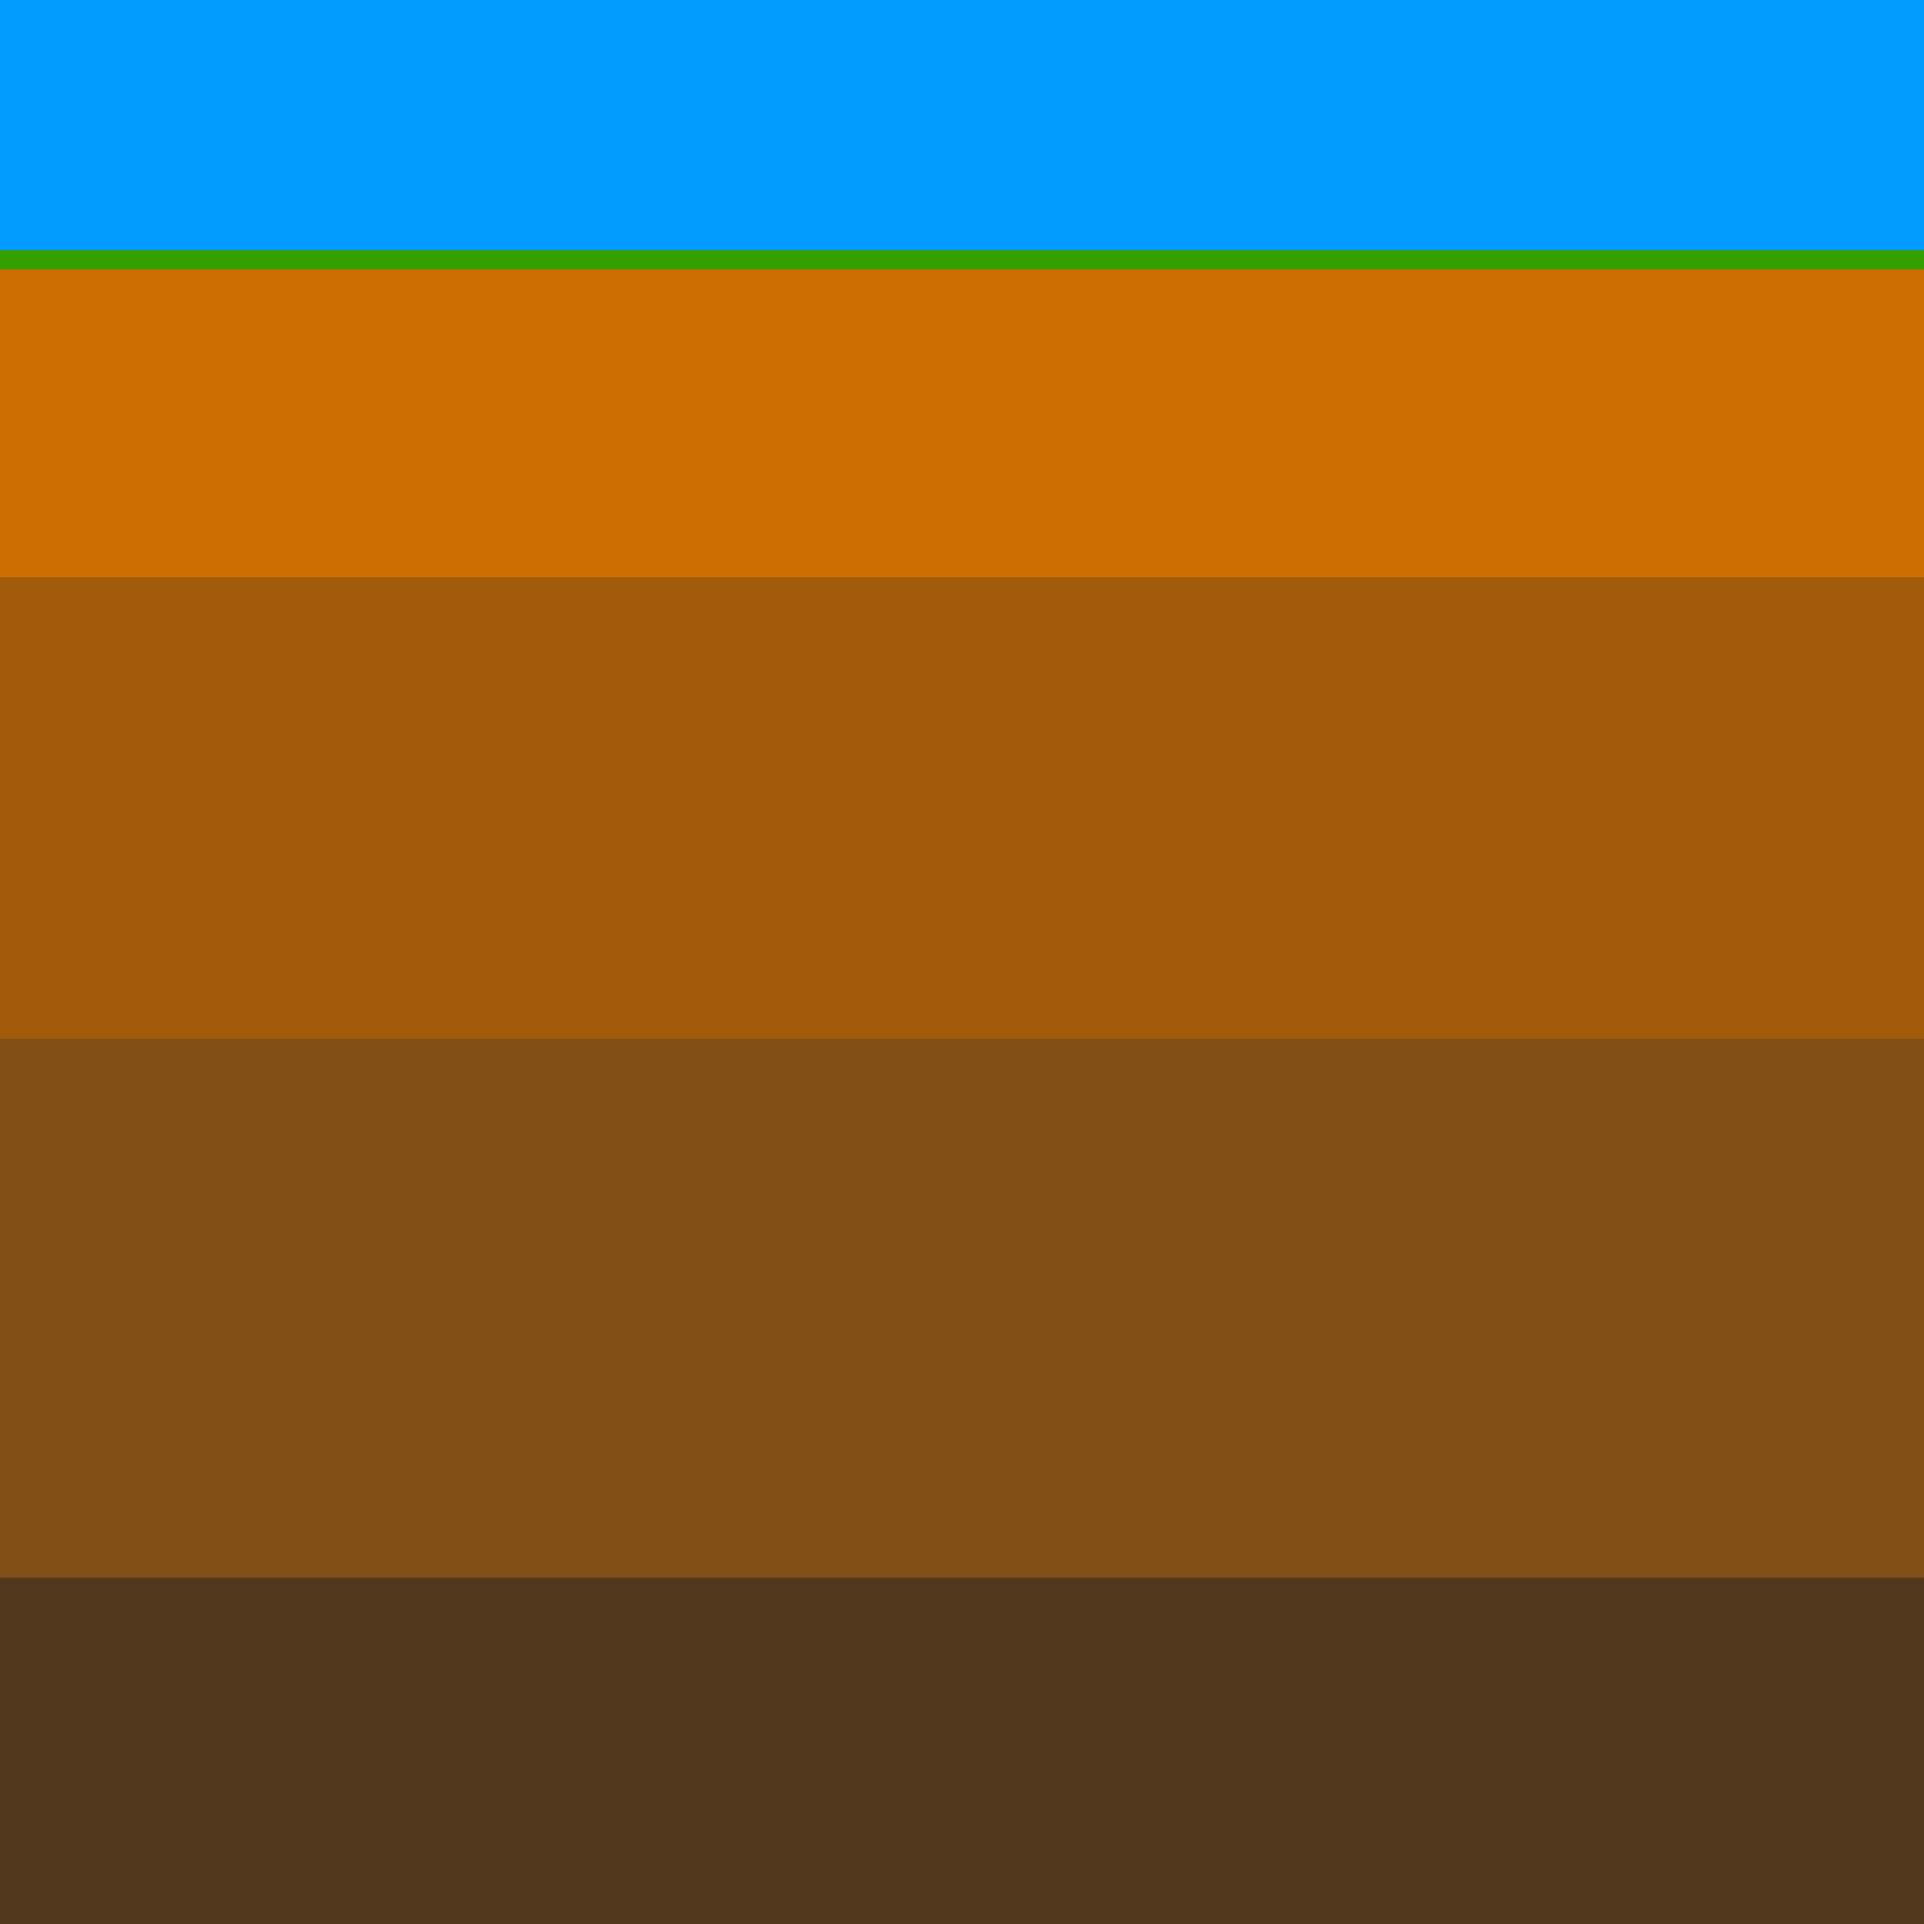
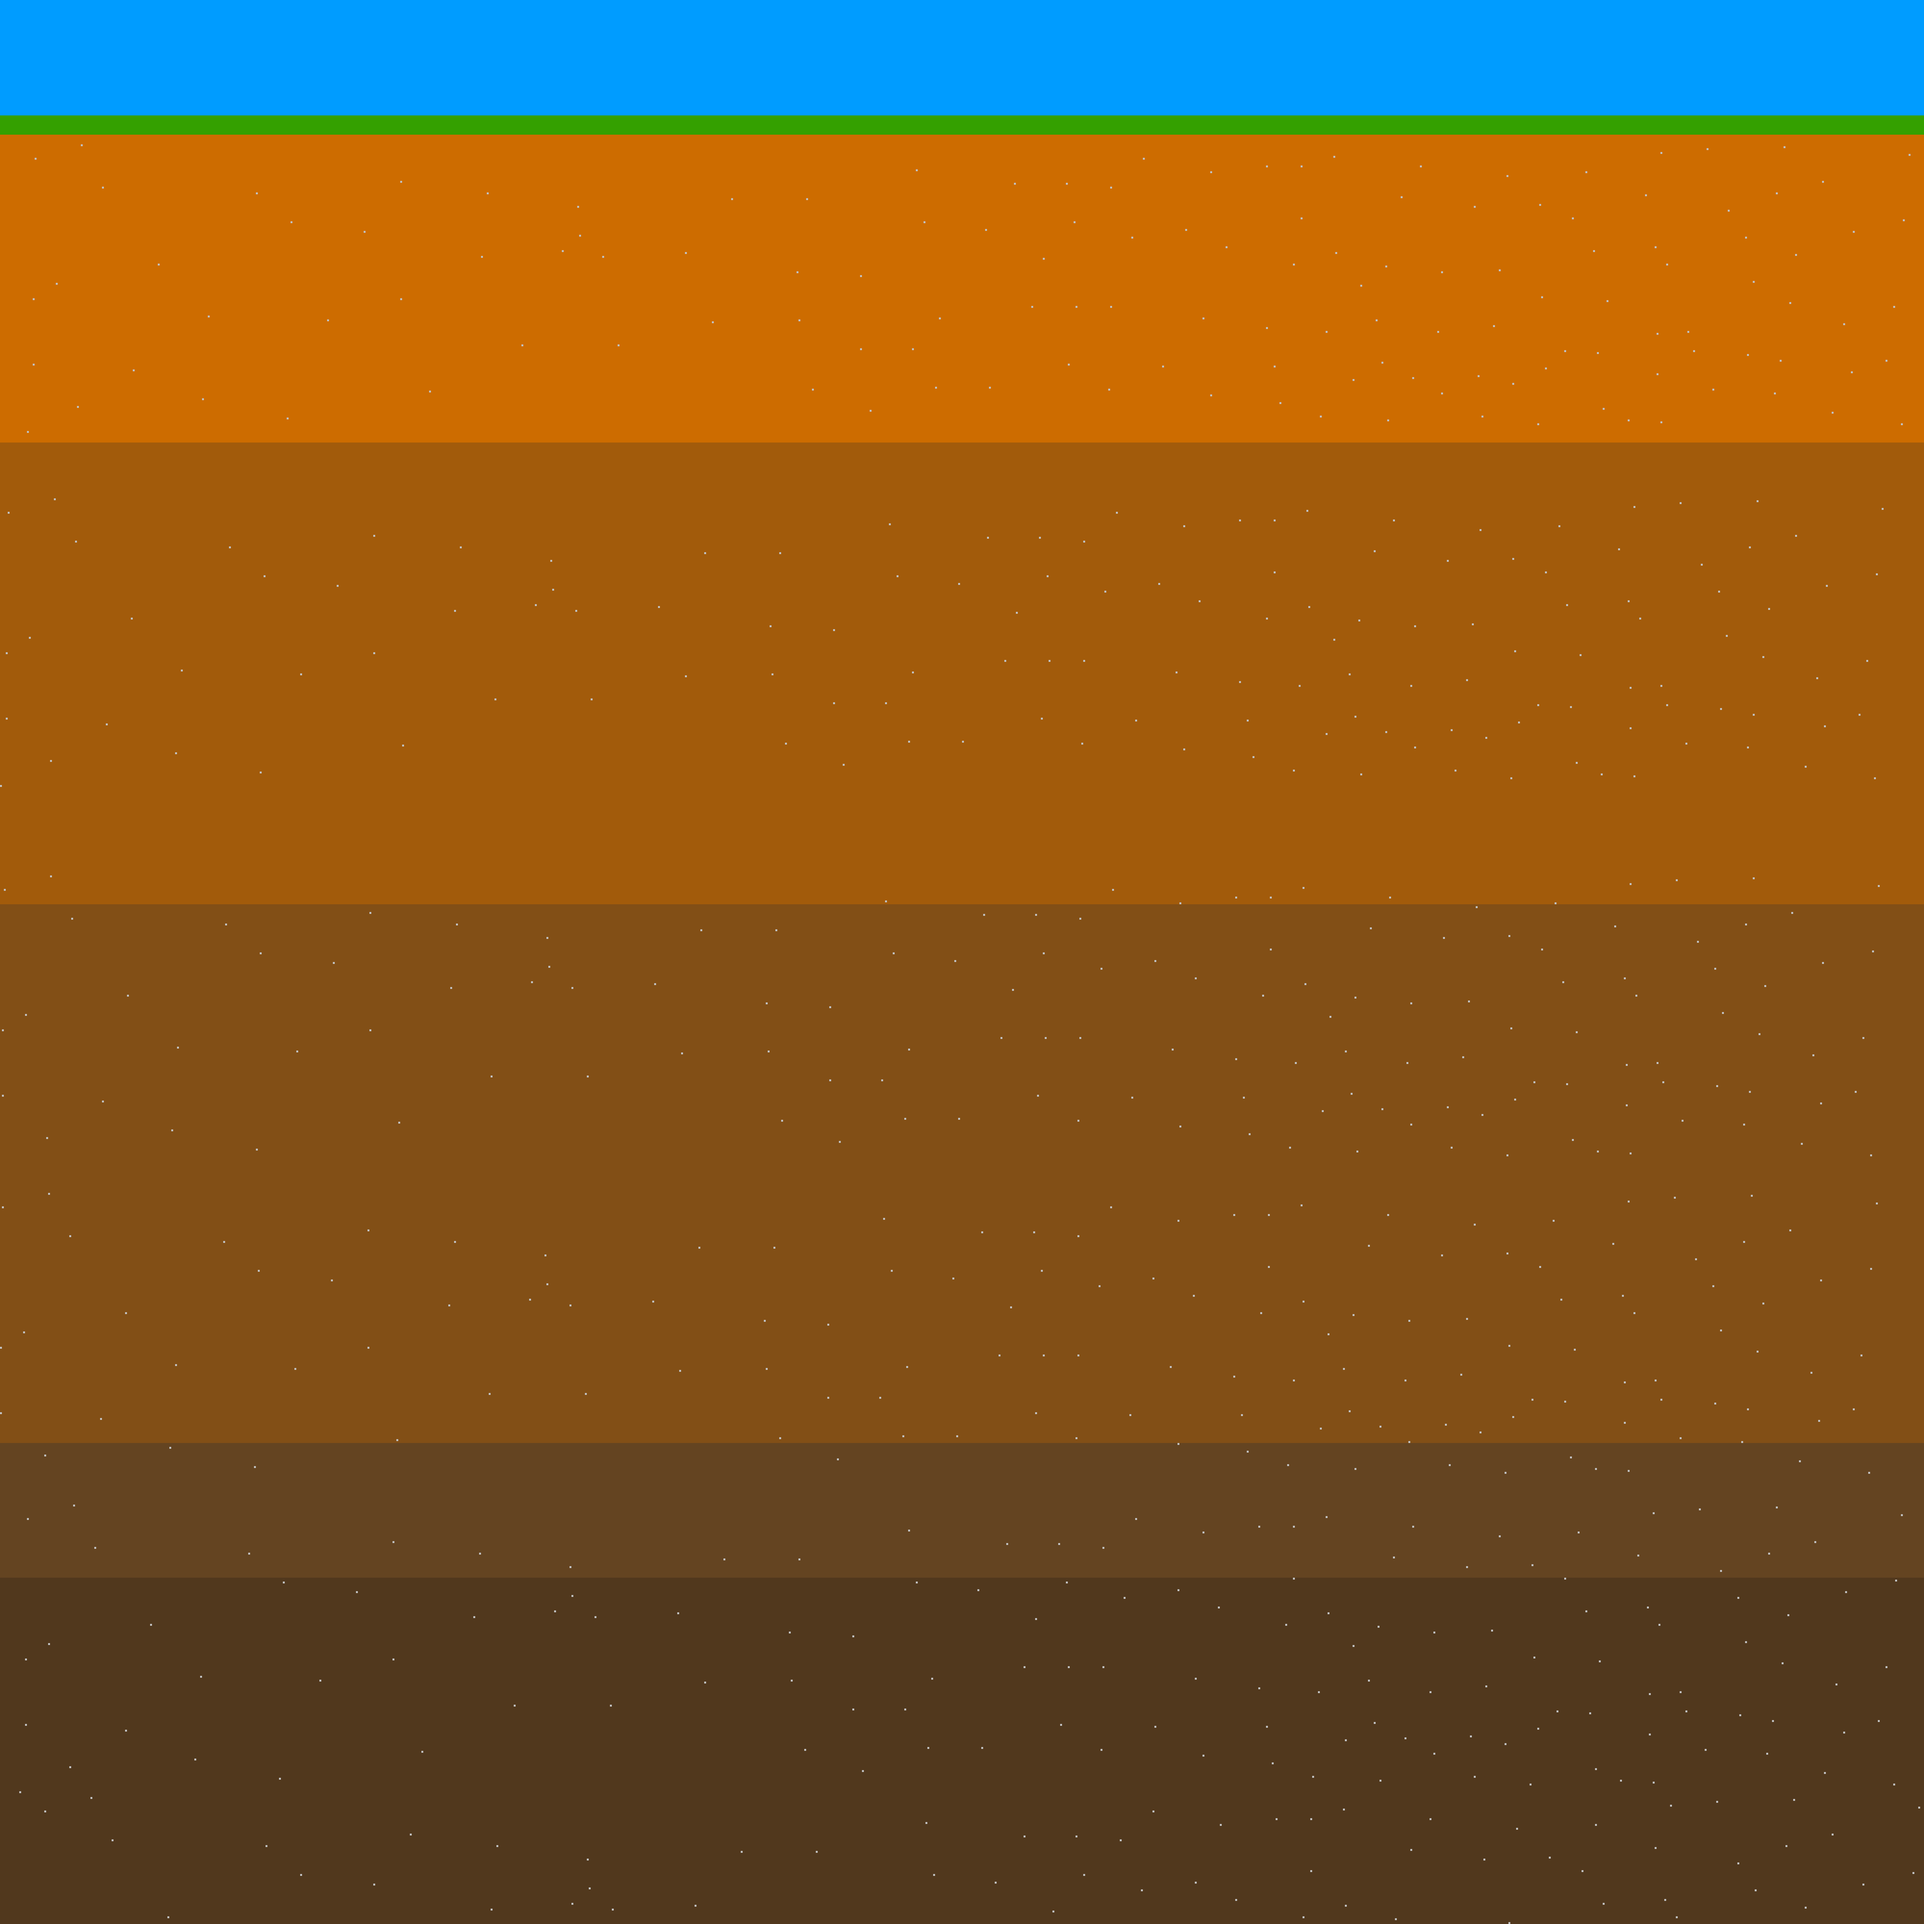
added foodspawing and updated background

diff --git a/game.js b/game.js
@@ -1,8 +1,12 @@
+const FPS = 60;
+
 const WORLDX = 10000;
 
 const WORLDY = 10000;
 
-const SKYHEIGHT = 1300;
+const SKYHEIGHT = 600;
+
+const GRASSHEIGHT = 100;
 
 const WORMLENGTH = 67;
 
@@ -10,7 +14,15 @@ const WORMWIDTH = 52;
 
 const WORMSPEED = 5;
 
-const FOODSPACING = 1000 ** 2;
+const FOODWIDTH = 50;
+
+const MINFOODSEPERATION = 40;
+
+const INITIALFOODDENSITY = 2000 ** 2;
+
+const INITIALFOODPERSECOND = 1;
+const MINFOODPERSECOND = 0.1;
+const FOODABUNDANCE = 1000;
 
 const WORLDSEED = 112358;
 
@@ -32,15 +44,22 @@ let faceSprite;
 
 let foodGroup;
 
+
+let gameState='game';
+let gameFrame = 0;
+
+let foodToSpawn = 0;
+
 let headSprite = WORMLENGTH - 1;
 let tailSprite = 0;
 
 let tailSegments = [];
 let tailBorderSegments = [];
 
+let foodLocations = [];
 
 
-// make sky half the height
+
 
 /******************
 preload
@@ -60,7 +79,7 @@ setup
 *****************/
 
 function setup() {
-	frameRate(60);
+	frameRate(FPS);
 
 	randomSeed(WORLDSEED);
 
@@ -88,7 +107,7 @@ function setup() {
 
 function wormSetup() {
 
-	playerBorder = new Sprite(500, 1500, WORMWIDTH);
+	playerBorder = new Sprite(3000, 900, WORMWIDTH);
 
 	playerBorder.strokeWeight = 0;
 
@@ -140,10 +159,8 @@ function initialFoodSetup() {
 
 	foodGroup = new Group();
 
-	for (let i = 0; i < WORLDX * WORLDY / FOODSPACING; i++) {
-// add grass constraint
-		let foodItem = new Sprite(random(WORLDX), random(SKYHEIGHT, WORLDY), "n");
-		foodGroup.add(foodItem);
+	for (let i = 0; i < WORLDX * WORLDY / INITIALFOODDENSITY; i++) {
+		newFood();
 	}
 }
 
@@ -152,15 +169,27 @@ drawFunc
 *****************/
 
 function draw() {
-
 	background('green');
-
-	playerMove(WORMSPEED);
-
-	moveCamera(10);
+	if (gameState == 'start') {
+		startScreen();
+	} else if (gameState == 'game') {
+		gameScreen();
+	} else if (gameScreen == 'end') {
+		endScreen();
+	}
 
 }
 
+function startScreen() { }
+
+function gameScreen() {
+	gameFrame++;
+	playerMove(WORMSPEED);
+	moveCamera(10);
+	spawnFood();
+}
+
+function endScreen() { }
 
 function playerMove(speed) {
 
@@ -250,7 +279,7 @@ function playerMove(speed) {
 			+ (SKYHEIGHT + WORLDY - WORMWIDTH) / 2;
 		// plus the center of the playable vertical area
 		// sets the player's y to the top or bottom edge of the playable area depending on what half the player is in
-		
+
 		if (playerBorder.y == tailBorderSegments[headSprite].y) {
 			// if the parent if (player is trying to go out the top or bottom of the playable area) is true then check if player was in the same position last frame
 			movingY = false;
@@ -316,5 +345,39 @@ function moveTail() {
 
 
 function spawnFood() {
+	foodToSpawn += (FOODABUNDANCE * (INITIALFOODPERSECOND - MINFOODPERSECOND)) / (gameFrame * (INITIALFOODPERSECOND - MINFOODPERSECOND) + FPS * FOODABUNDANCE) + MINFOODPERSECOND / FPS;
+	while (foodToSpawn >= 1) {
+		foodToSpawn += -1;
+		newFood();
+	}
 
+}
+
+
+function newFood() {
+	let repeat = true;
+	let x
+	let y
+	while (repeat) {
+		repeat = false;
+		x = random(FOODWIDTH, WORLDX - FOODWIDTH);
+		y = random(SKYHEIGHT + GRASSHEIGHT + FOODWIDTH, WORLDY - FOODWIDTH);
+
+		for (let i2 = 0; i2 < foodLocations.length; i2++) {
+
+			if (Math.max(Math.abs(foodLocations[i2].x - x), Math.abs(foodLocations[i2].y - y)) < FOODWIDTH + MINFOODSEPERATION) {
+				repeat = true;
+
+			}
+		}
+
+
+	}
+
+	let foodItem = new Sprite(x, y, FOODWIDTH, "n");
+
+
+	foodLocations.push(foodItem);
+
+	foodGroup.add(foodItem);
 }
